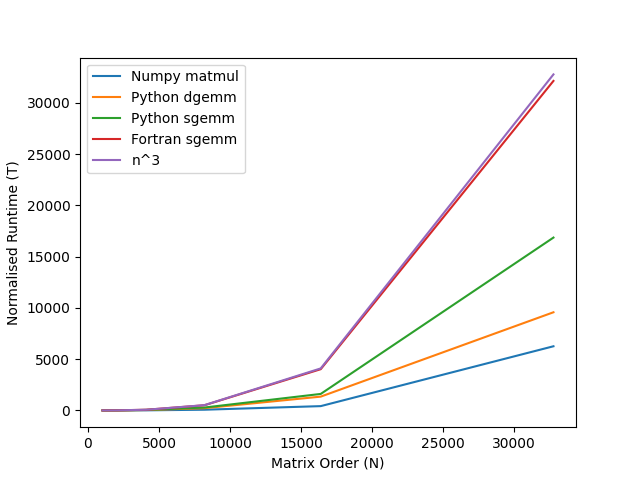
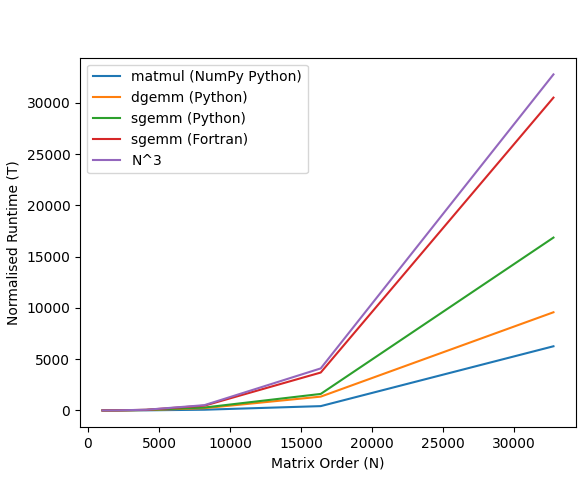
Updating Figures

diff --git a/TesterFiles/Libraries/Gen_Libraries_Runtime_Graph_Table.py b/TesterFiles/Libraries/Gen_Libraries_Runtime_Graph_Table.py
@@ -30,7 +30,7 @@ def read_myfunc_times(path_name):
 def gen_cubed_df(start_power,end_power):
     order_list = [2**j for j in range(start_power,end_power)]
     cubed_list = [(2**j)**3 for j in range(start_power,end_power)]
-    cubed_df = pd.DataFrame([cubed_list],columns=order_list,index=["n^3"])
+    cubed_df = pd.DataFrame([cubed_list],columns=order_list,index=["N^3"])
     return cubed_df.T
 
 
@@ -41,14 +41,15 @@ def apply_norm(time_df,norm_index):
 
 def gen_plot(df,p,lock_val):
     df = df.T
+    df.columns = ["matmul (NumPy Python)","dgemm (Python)","sgemm (Python)","sgemm (Fortran)","N^3"]
     df.plot()
     plt.xlabel("Matrix Order (N)")
     plt.ylabel("Normalised Runtime (T)")
     plt.legend()
     #plt.gca().set_aspect('equal')
     p = Path.cwd()
-    plt.show()
-    #plt.savefig(f"{p.parent.parent}\Figures\Libraries\Library_Normalised_Runtimes_{lock_val}.png")
+    #plt.show()
+    plt.savefig(f"{p.parent.parent}\Figures\Libraries\Library_Normalised_Runtimes_{lock_val}.png")
 
 
 def calc_FLOPS(df):
@@ -80,25 +81,25 @@ def main():
     for lock_val in ["no_lock","lock"]:
         print(f"\n\n{lock_val}\n")
         python_df = read_python_times(f"time_df_libraries_{lock_val}.pkl")
-        print(f"python_df: \n{python_df}")
+        #print(f"python_df: \n{python_df}")
         
-        fortran_df = read_fortran_times(f"{p.parent}\Fortran/fortran_results_{lock_val}.txt")
-        print(f"fortran_df: \n{fortran_df}")
+        fortran_df = read_fortran_times(f"{p.parent}\Fortran/fortran_results.txt")
+        #print(f"fortran_df: \n{fortran_df}")
         python_and_fortran_df = python_df.join(fortran_df)
         
         cubed_df = gen_cubed_df(start_power,end_power)
-        print(f"cubed_df: \n{cubed_df}")
+        #print(f"cubed_df: \n{cubed_df}")
         
         total_df = python_and_fortran_df.join(cubed_df)
-        print(f"total_df: \n{total_df}")
+        #print(f"total_df: \n{total_df}")
         norm_df = apply_norm(total_df,norm_index)
-        print(f"norm_df: \n{norm_df.to_string()}")
+        #print(f"norm_df: \n{norm_df.to_string()}")
     
         gen_plot(norm_df,p,lock_val)
-    myfunc_df = read_myfunc_times(f"time_df_my_function_{lock_val}.pkl")
-    python_and_fortran_df = myfunc_df.join(python_and_fortran_df)
-    print_overleaf_table(python_and_fortran_df)
-    print(calc_FLOPS(python_and_fortran_df).to_string())
+        myfunc_df = read_myfunc_times(f"time_df_my_function_{lock_val}.pkl")
+        python_and_fortran_df = myfunc_df.join(python_and_fortran_df)
+        print_overleaf_table(python_and_fortran_df)
+    #print(calc_FLOPS(python_and_fortran_df).to_string())
 
 
 if __name__ == '__main__':

diff --git a/TesterFiles/Multiprocessing/Gen_multiprocessing_graphs.py b/TesterFiles/Multiprocessing/Gen_multiprocessing_graphs.py
@@ -26,17 +26,18 @@ def apply_speedup(time_df,core_list):
 def gen_plot(df,p,speedup,pkl_name,func_name):
     df = df.T
     df.plot()
-    plt.xlabel("Number of processors (p)")
+    plt.xlabel("Number of processors (P)")
     if speedup:
-        plt.ylabel("Runtime Speedup")
+        plt.ylabel("Runtime Speedup (S)")
     else:
         plt.ylabel("Normalised Runtime")
-    plt.legend()
+    plt.legend([f"N={n}" if n != "Ideal" else "Ideal" for n in df.columns])
     p = Path.cwd()
-    if speedup:
-        plt.savefig(f"{p.parent.parent}\Figures\Multiprocessing\multiprocessing_{func_name}_{pkl_name}_speedup.png")
-    else:
-        plt.savefig(f"{p.parent.parent}\Figures\Multiprocessing\multiprocessing_{func_name}_{pkl_name}_norm.png")
+    plt.show()
+    #if speedup:
+    #    plt.savefig(f"{p.parent.parent}\Figures\Multiprocessing\multiprocessing_{func_name}_{pkl_name}_speedup.png")
+    #else:
+    #    plt.savefig(f"{p.parent.parent}\Figures\Multiprocessing\multiprocessing_{func_name}_{pkl_name}_norm.png")
 
 
 def main():

diff --git a/TesterFiles/Multiprocessing/Gen_Multiprocessing_Barchart_All_Cores.py b/TesterFiles/Multiprocessing/Gen_Multiprocessing_Barchart_All_Cores.py
@@ -53,7 +53,7 @@ for func_name in func_list:
         calc_plt =  plt.bar(bar_l,
                             norm_calc_sub_df,
                             width=bar_width,
-                            label="Calc",
+                            label="Calculation",
                             alpha=0.5,
                             bottom=norm_scatter_sub_df,
                             color="g")
@@ -67,8 +67,8 @@ for func_name in func_list:
                             color="r")
 
     plt.xticks([j-1 for j in range(len(total_df.index))], calc_df.index)
-    plt.xlabel("Matrix order")
+    plt.xlabel("Matrix order (N)")
     plt.ylabel("Normalised Runtime")
-    plt.legend(["Scatter","Calc","Gather"])
+    plt.legend(["Scatter","Calculation","Gather"])
     plt.savefig(f"{p.parent.parent}\Figures\Multiprocessing\Multiprocessing_{func_name}_barchart_all_cores.png")
     plt.clf()
